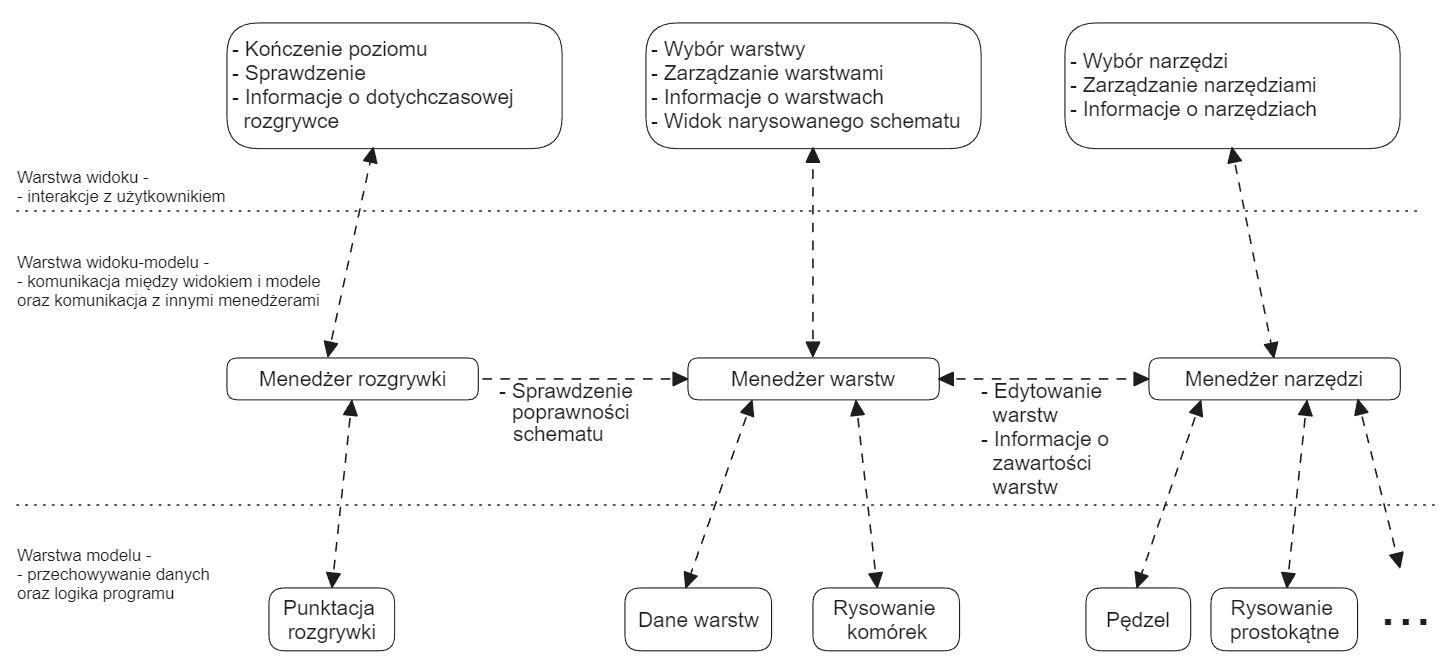
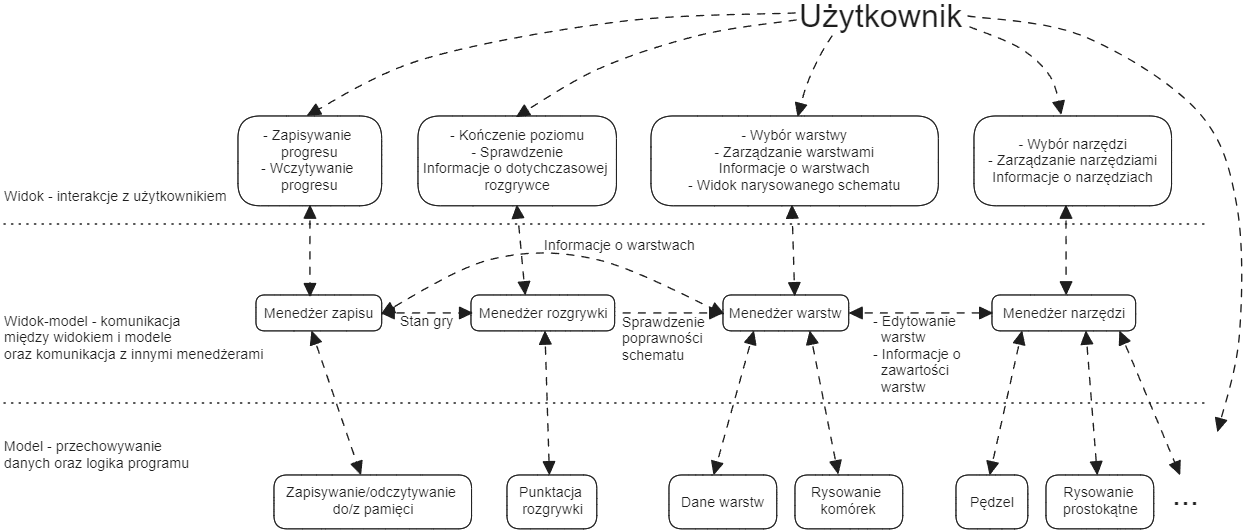
- zmiana strony tytułowej, dodanie podrozdziału o unity oraz dopisanie informacji o gimpie

diff --git a/src/chapters/chapter3/technology.tex b/src/chapters/chapter3/technology.tex
@@ -13,7 +13,8 @@ Z wielu zalet silnika Unity, kluczowe dla niniejszego projektu są:
     Unity oferuje wiele narzędzi, które ułatwiają tworzenie interaktywnych aplikacji graficznych,
     dzięki czemu można skupić się na tworzeniu mechanik gry.
     \item Szerokie wsparcie --
-    Unity posiada rozbudowaną dokumentację~\cite{unity_docs}, aktywne forum~\cite{unity_forum} oraz wiele darmowych zasobów,.
+    Unity posiada rozbudowaną dokumentację~\cite{unity_docs},
+    aktywne forum~\cite{unity_forum} oraz wiele darmowych zasobów,.
 \end{citemize}
 
 Unity korzysta z języka C\#, opartego o paradygmat programowania obiektowego (ang. OOP — Object-Oriented Programming),
@@ -25,7 +26,7 @@ Pozwala to na tworzenie wielu obiektów o podobnych cechach, co ułatwia pisanie
 
 Aby zapewnić modularność oraz separację elementów aplikacji,
 wykorzystano odpowiednio zaadaptowana architekturę MVVM (Model-View-ViewModel).
-Bazowo polega ona na podziale komponentów aplikacji na trzy główne części: model, widok oraz widok-model.
+Polega ona na podziale na trzy główne części: model, widok oraz widok-model.
 Funkcje każdego z nich opisano w tab.~\ref{tab:mvvm}.
 
 \begin{table}[h]
@@ -47,16 +48,53 @@ Funkcje każdego z nich opisano w tab.~\ref{tab:mvvm}.
     \end{tabular}
 \end{table}
 
-Tak jak pierwotnie w architekturze MVVM, po adaptacji,
-widok odpowiada za prezentację danych oraz interakcję z użytkownikiem.
-Widok-model odpowiada za przekazywanie danych pomiędzy nie tylko między modelem a widokiem,
-ale również między innymi częściami aplikacji jako menedżer danego systemu aplikacji.
-Sam model natomiast składa się z wielu komponentów, które przechowują dane oraz logikę danego komponentu aplikacji.
-Zarys architektury programu przedsawiono na rys.~\ref{fig:architektura}.
+%Tak jak pierwotnie w architekturze MVVM,
+%widok odpowiada za prezentację danych oraz interakcję z użytkownikiem.
+%Przy czym po adaptacji widok-model odpowiada za nie tylko przekazywanie danych nie tylko między modelem a widokiem,
+%ale również pomiędzy innymi częściami aplikacji jako menedżer danego systemu aplikacji.
+%Sam model natomiast składa się z wielu komponentów, które przechowują dane oraz logikę danego komponentu aplikacji.
+W przypadku większych projektów model ten jest stosowany do większości komponentów składających się na aplikację.
+Widok-model w tej sytuacji odpowiada za przekazywanie danych nie tylko między modelem a widokiem,
+ale również pomiędzy innymi częściami aplikacji jako menedżer danego systemu aplikacji.
+W przypadku opracowywanej aplikacji można wyróżnić trzy główne systemy dotyczące innych aspektów programu:
 
-\begin{figure}[h]
+\begin{citemize}
+    \item System zarządzania progresem gry, odpowiadający za kontrolę przebiegu gry,
+    a także punktację oraz weryfikację poziomów,
+    \item Narzędzia do rysowania i edycji, wybieranie ich oraz kontrola ich działania,
+    \item System zarządzania rysowanym schematem,
+    odpowiadający za renderowanie warstw i przechowywanie informacji o nich
+    oraz kontrolujący ich widok czy połączenia, na jakie się składają,
+    \item System zapisu, odpowiadający za zapis i odczyt stanu gry.
+\end{citemize}
+
+%zarządzanie progresem gry, narzędzia do rysowania i edycji, system zarządzania rysowanym schematem, oraz system zapisu.
+Odstępstwem od architektury MVVM jest natomiast potrzeba bezpośredniej interakcji pomiędzy użytkownikiem,
+a narzędziami ze względu na różnorodność interakcji co przekłada się także na mniej skomplikowany kod.\\
+Zarys architektury programu przedstawiono na rys.~\ref{fig:architektura}.
+
+\begin{figure}[h!]
     \centering
-    \includegraphics[width=.9\textwidth]{chapters/chapter3/rys/arch}
+    \includegraphics[width=\textwidth]{chapters/chapter3/rys/arch}
     \caption[Architektura programu.]{Architektura programu, źródło: opracowanie własne.}
     \label{fig:architektura}
 \end{figure}
+
+\subsection{Wykorzystanie funkcji Unity oraz paczek zasobów}
+\label{subsec:zasoby}
+
+Prócz podstawowego skryptu, na jakim bazuje Unity, czyli \textit{MonoBehaviour},
+wykorzystano także \textit{ScriptableObject}.
+Jest to klasa, która pozwala na tworzenie obiektów, które mogą przechowywać,
+a nawet wykonywać prostą logikę dane poza pracą programu~\cite{unity_csharp, scriptable_docs}.
+%Pozwala to na szczególną modularność dzięki możliwości wcześniejszego zdefiniowania danych zawartych w obiekcie
+%i co mają one robić, a następnie tworzenie obiektów na ich podstawie.
+Działanie SO jest zbliżone do klas i obiektów w OOP,
+przy czym SO jest wykorzystywany przede wszystkim w edytorze Unity.
+Dzięki temu można wcześniej zdefiniować jaki rodzaj danych powinien przechowywać dany typ obiektu,
+a następnie tworzyć na ich podstawie konkretne obiekty, których dane można zmieniać w edytorze.
+Zostało to w szczególności wykorzystane w systemach zarządzania, rysowanym schematem
+i narzędziami do rysowania i edycji.\\
+%W przypadku schematu SO przechowuje informacje o tym jak powinny wyglądać i zachowywać się warstwy,
+%natomiast do narzędzi SO zostały wykorzystane jako konfiguracje 
+\indent 

diff --git a/src/chapters/chapter2/others.tex b/src/chapters/chapter2/others.tex
@@ -12,6 +12,28 @@ i idealne do nauki danej dziedziny, której dotyczą.
 
 Podobnie jak Electric, GIMP jest oficjalnym pakietem GNU i również posiada otwarty kod źródłowy
 oraz stosuje założenia wolnego oprogramowania~\cite{gimp_site}.
-Jest to program do edycji grafiki rastrowej, \todo
+Jest dostępny na wiele platform, w tym na systemy Windows, Linux oraz macOS.
+GIMP to program do edycji grafiki rastrowej.
+Charakteryzuje się przejrzystym interfejsem graficznym oraz dużą ilością narzędzi,
+gdzie każde z nich ma swój własny skrót klawiszowy, co znacznie ułatwia pracę w programie.
+\indent Interfejs graficzny jest podzielony na trzy główne panele, nie licząc obszaru roboczego:
+
+\begin{citemize}
+    \item Górny panel menu programu -- dostępne opcje dla programu oraz dodatkowe opcje do modyfikacji edytowanego obrazu,
+    \item Prawy panel -- zawiera przede wszystkim panel do zarządzania warstwami obrazu,
+    ale również szereg innych opcji takich jak krzywe, desenie czy wybór pędzli
+    \item Lewy panel narzędzi -- zawiera narzędzia do rysowania oraz modyfikacji obrazu oraz opcje tych narzędzi.
+\end{citemize}
+
+Widok okna programu GIMP przedstawiono na rys.~\ref{fig:gimp_okno}.
+Dzięki zastosowaniu takiego interfejsu program jest przejrzysty dzięki zgrupowaniu konkretnych typów funkcjonalności,
+co może mieć także zastosowanie w opracowywanym programie.
+
+\begin{figure}[h]
+    \centering
+    \includegraphics[width=.9\textwidth]{chapters/chapter2/img/gimp}
+    \caption[Widok głównego okna programu GIMP.]{Widok głównego okna programu GIMP, źródło:~\cite{gimp_site}.}
+    \label{fig:gimp_okno}
+\end{figure}
 
 \subsection{Blender}

diff --git a/src/chapters/symbols_abbreviations.tex b/src/chapters/symbols_abbreviations.tex
@@ -1,7 +1,11 @@
 \section*{Wykaz ważniejszych oznaczeń i skrótów}
 \label{sec:oznaczenia_i_skroty}
 \begin{tabular}{l l l}
-    VLSI & -- & Very Large Scale Integration \\
-    EDA & -- & Electronic Design Automation \\
+    \footnotesize VLSI & -- & \footnotesize Very Large Scale Integration \\
+    \footnotesize EDA & -- & \footnotesize Electronic Design Automation \\
+    \footnotesize MVVM & -- & \footnotesize Model-View-ViewModel \\
+    \footnotesize SO & -- & \footnotesize Scriptable Object \\
+    \footnotesize UI & -- & \footnotesize User Interface \\
+    \footnotesize OOP & -- & \footnotesize Object-Oriented Programming \\
 \end{tabular}
     

diff --git a/src/chapters/chapter2/magic.tex b/src/chapters/chapter2/magic.tex
@@ -68,7 +68,7 @@ może być to niepotrzebną komplikacją dla użytkowników dopiero uczących si
 \indent Nadmienić jednak trzeb, że istotną zaletą programu Magic jest prosta szata graficzna,
 a w szczególności tekstury materiałów, które są czytelne, pozwalają na łatwe rozróżnienie warstw,
 nawet gdy się na siebie nakładają, dzięki dobrze dobranym wzorom i kolorom,
-przykład przedstawiono na rys. \ref{fig:magic_tran}.
+przykład przedstawiono na rys.~\ref{fig:magic_tran}.
 Implementacja podobnego rozwiązania w projekcie poprawi czytelność schematów.
 
 \begin{figure}[h]

diff --git a/src/main.tex b/src/main.tex
@@ -100,11 +100,15 @@
     tabsize=1
 }
 
+% Url style
+\urlstyle{same}
+
 % Header and footer
 \fancyhf{}
 \fancyhead{}
-\fancyhead[RO,LE]{Maksymilian Dziemiańczuk}
-\fancyhead[RO,LE]{Projekt inżynierski}
+\fancyhead[L]{Maksymilian Dziemiańczuk}
+\fancyhead[R]{Projekt inżynierski}
+%\fancyhead[RO,LE]{\footnotesize Program do tworzenia schematów układów scalonych w formie gry edukacyjnej}
 \fancyfoot{}
 \fancyfoot[RO,LE]{\thepage}
 \fancyfoot[RE,LO]{\footnotesize Program do tworzenia schematów układów scalonych w formie gry edukacyjnej}
